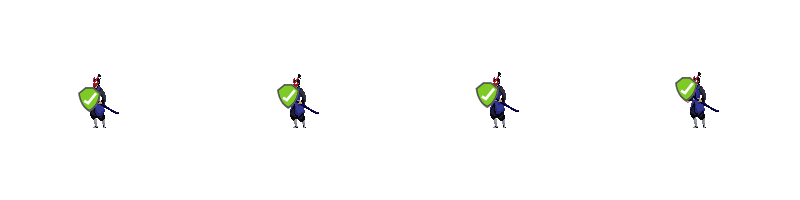
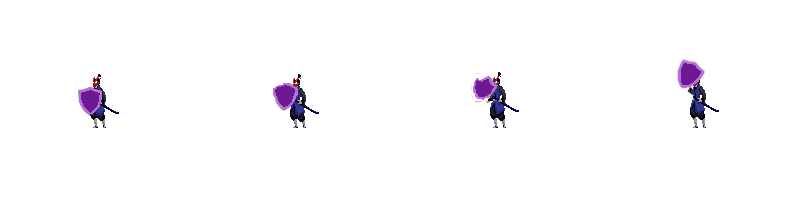
Setting up with Defend functionality

diff --git a/FightingGameFinalJsProject/src/js/animation.js b/FightingGameFinalJsProject/src/js/animation.js
@@ -9,7 +9,7 @@ function animate() {
   player.update();
   enemy.update();
 
-  /* -------------------------- Player movement here -------------------------- */
+  /* -------------------------- Player horizontal movement here -------------------------- */
   player.velocity.x = 0;
   if (keys.d.pressed && player.position.x <= 974) {
     player.velocity.x = 5;
@@ -22,11 +22,11 @@ function animate() {
   }
 
   // player jump back to position(jump)
-  if (keys.w.pressed && player.position.y >= 0) {
-    if (player.position.y - player.velocity.y >= 0) {
-      player.velocity.y = -14;
+  if (keys.w.pressed && player.position.y >= 95) {
+    // if (player.position.y - player.velocity.y >= 0) {
+      player.velocity.y = -10;
       player.switchSprite("jump");
-    }
+    // }
   } else if (
     player.velocity.y > 0 &&
     player.position.y < canvas.height - player.height
@@ -48,16 +48,26 @@ function animate() {
   }
 
   //  enemy jumpback to position(jump)
-  if (keys.ArrowUp.pressed && enemy.position.y >= 0) {
-    if (enemy.position.y - enemy.velocity.y >= 0) {
-      enemy.velocity.y = -14;
+  if (keys.ArrowUp.pressed && enemy.position.y >= 95) {
+    // if (enemy.position.y - enemy.velocity.y >= 0) {
+      enemy.velocity.y = -10;
       enemy.switchSprite("jump");
-    }
+    // }
   } else if (
     enemy.velocity.y > 0 &&
     enemy.position.y < canvas.height - enemy.height
   ) {
     enemy.switchSprite("fall");
+  }
+
+  // defending attack
+
+  if (keys.Insert.pressed) {
+    enemy.switchSprite("Defend");
+  }
+
+  if (keys.f.pressed) {
+    player.switchSprite("Defend");
   }
 
   /* ------------------------ detect collision by hero ------------------------ */
@@ -69,13 +79,22 @@ function animate() {
     (player.framesCurrent === 2 ||
       (player.isPlayerControlPressed && player.framesCurrent === 3))
   ) {
-    // Collision detected by player
-    if (player.isPlayerControlPressed ) {
-      // Combo attack hits
-      enemy.takeHit(15); // Pass 15 as the damage for combo attack
-    } else  {
-      // Normal attack hits
-      enemy.takeHit(10); // Pass 10 as the default damage
+   
+    if (player.isPlayerControlPressed) {
+      //enemy health decrease while defending in combo attack
+      if (keys.Insert.pressed) {
+        enemy.takeHit(4);
+      } else {
+        enemy.takeHit(10);
+        // enemy health decrease without defending in combo attack
+      }
+    } else {
+      //  //player health decrease while defending in Normal attack
+      if (keys.Insert.pressed) {
+        enemy.takeHit(2);
+      } else {
+        enemy.takeHit(5); // plsyer health decrease while without defending in Normal attack
+      }
     }
 
     player.isAttacking = false;
@@ -105,10 +124,21 @@ function animate() {
     if (enemy.isEnemyControlPressed) {
       console.log(enemy.isEnemyControlPressed);
       // Combo attack hits
-      player.takeHit(15); // Pass 15 as the damage for combo attack
+      if (keys.f.pressed) { 
+        player.takeHit(4); 
+      }
+      else {
+        player.takeHit(10); // Pass 15 as the damage for combo attack
+      }
+     
     } else {
       // Normal attack hits
-      player.takeHit(10); // Pass 10 as the default damage
+      if (keys.f.pressed) {
+        player.takeHit(2);
+      }
+      else {
+        player.takeHit(5); // Pass 10 as the default damage
+      }
     }
 
     enemy.isAttacking = false;

diff --git a/FightingGameFinalJsProject/src/js/gameObjects.js b/FightingGameFinalJsProject/src/js/gameObjects.js
@@ -8,6 +8,9 @@ const keys = {
   w: {
     pressed: false,
   },
+  f: {
+    pressed: false,
+  },
   ArrowRight: {
     pressed: false,
   },
@@ -15,6 +18,9 @@ const keys = {
     pressed: false,
   },
   ArrowUp: {
+    pressed: false,
+  },
+  Insert: {
     pressed: false,
   },
 };
@@ -98,11 +104,11 @@ if (Blaze) {
         framesMax: 8,
       },
       jump: {
-        imageSrc: "../img/HighForest/Jump-Start-Sheet.png",
+        imageSrc: "./src/img/HighForest/Jump-Start-Sheet.png",
         framesMax: 4,
       },
       fall: {
-        imageSrc: "../img/HighForest/Jump-End-Sheet.png",
+        imageSrc: "./src/img/HighForest/Jump-End-Sheet.png",
         framesMax: 3,
       },
       attack1: {
@@ -118,6 +124,10 @@ if (Blaze) {
         framesMax: 8,
       },
       comboAttack: {
+        imageSrc: "./src/img/HighForest/combo.png",
+        framesMax: 8,
+      },
+      Defend: {
         imageSrc: "./src/img/HighForest/combo.png",
         framesMax: 8,
       },
@@ -187,6 +197,10 @@ if (Shadow) {
         framesMax: 6,
       },
       comboAttack: {
+        imageSrc: "./src/img/samuraiMack/combo.png",
+        framesMax: 6,
+      },
+      Defend: {
         imageSrc: "./src/img/samuraiMack/combo.png",
         framesMax: 6,
       },
@@ -345,6 +359,10 @@ if (Luna) {
         framesMax: 4,
       },
       comboAttack: {
+        imageSrc: "./src/img/enemySecond/Special_moves.png",
+        framesMax: 8,
+      },
+      Defend: {
         imageSrc: "./src/img/enemySecond/Special_moves.png",
         framesMax: 8,
       },

diff --git a/FightingGameFinalJsProject/src/js/index.js b/FightingGameFinalJsProject/src/js/index.js
@@ -36,8 +36,12 @@ window.addEventListener("keydown", (event) => {
           player.attack();
         }
         break;
-
-     
+      
+      case "f":
+        // console.log("q");
+        keys.f.pressed = true;
+        // enemy.defend();
+        break;
     }
   }
   console.log(event.key);
@@ -72,9 +76,11 @@ window.addEventListener("keydown", (event) => {
           enemy.attack();
         }
         break;
-      case "Control":
+      
+      case "Insert":
         // console.log("q");
-        enemy.defend();
+        keys.Insert.pressed = true;
+        // enemy.defend();
         break;
     }
   }
@@ -98,6 +104,12 @@ if (!enemy.dead) {
         isVPressed = false;
         player.isPlayerControlPressed = false;
         break;
+      
+      case "f":
+        // console.log("q");
+        keys.f.pressed = false;
+        // enemy.defend();
+        break;
 
       case "ArrowRight":
         keys.ArrowRight.pressed = false;
@@ -115,6 +127,11 @@ if (!enemy.dead) {
         isControlPressed = false;
         enemy.isEnemyControlPressed = false;
 
+        break;
+      case "Insert":
+        // console.log("q");
+        keys.Insert.pressed = false;
+        // enemy.defend();
         break;
     }
 

diff --git a/FightingGameFinalJsProject/src/js/FightersClass.js b/FightingGameFinalJsProject/src/js/FightersClass.js
@@ -98,10 +98,10 @@ class Fighters extends Sprite {
      }
   }
 
-  defend() {
-    this.switchSprite("Defend");
-    // this.isAttacking = true;
-  }
+  // defend() {
+  //   this.switchSprite("Defend");
+  //   // this.isAttacking = true;
+  // }
 
   
   takeHit(damage) {
@@ -118,6 +118,7 @@ class Fighters extends Sprite {
 
   /* ---------------------------- switch of sprite ---------------------------- */
   switchSprite(sprite) {
+    
     if (this.image === this.sprites.Death.image) {
       if (this.framesCurrent === this.sprites.Death.framesMax - 1)
         this.dead = true;
@@ -141,6 +142,7 @@ class Fighters extends Sprite {
       this.framesCurrent < this.sprites.comboAttack.framesMax - 1
     )
       return;
+    
     
     //  if (
     //    this.image === this.sprites.Defend.image &&
@@ -229,11 +231,13 @@ class Fighters extends Sprite {
         break;
 
       case "Defend":
+         console.log("Switching to Defend sprite!");
         if (this.image !== this.sprites.Defend.image) {
           this.image = this.sprites.Defend.image;
           this.framesCurrent = 0;
           this.framesMax = this.sprites.Defend.framesMax;
         }
+      
         break;
     }
   }

diff --git a/FightingGameFinalJsProject/src/js/utils.js b/FightingGameFinalJsProject/src/js/utils.js
@@ -31,7 +31,11 @@ function DecreaseTimer() {
   }
 }
 
-/* ---------------------- determination of final winner --------------------- */function FinalWinner({ player, enemy }) {
+/* ---------------------- determination of final winner --------------------- */
+function FinalWinner({
+  player,
+  enemy,
+}) {
   clearInterval(interval);
   // var displayResult = document.querySelector("#displayResult");
   var resultText = document.querySelector("#resultText");
@@ -56,6 +60,3 @@ function playAgain() {
 
 // Hide the "Play Again" button initially
 document.getElementById("playAgainButton").style.display = "none";
-
-
-

diff --git a/FightingGameFinalJsProject/src/js/SpriteClass.js b/FightingGameFinalJsProject/src/js/SpriteClass.js
@@ -37,7 +37,7 @@ class Sprite {
     );
   }
 
-  /* ----------------------- /here animation is perform  ----------------------- */
+  /* ----------------------- / animation is performing ----------------------- */
   animateFrame() {
     this.framePassed++;
     if (this.framePassed % this.frameHold === 0) {
